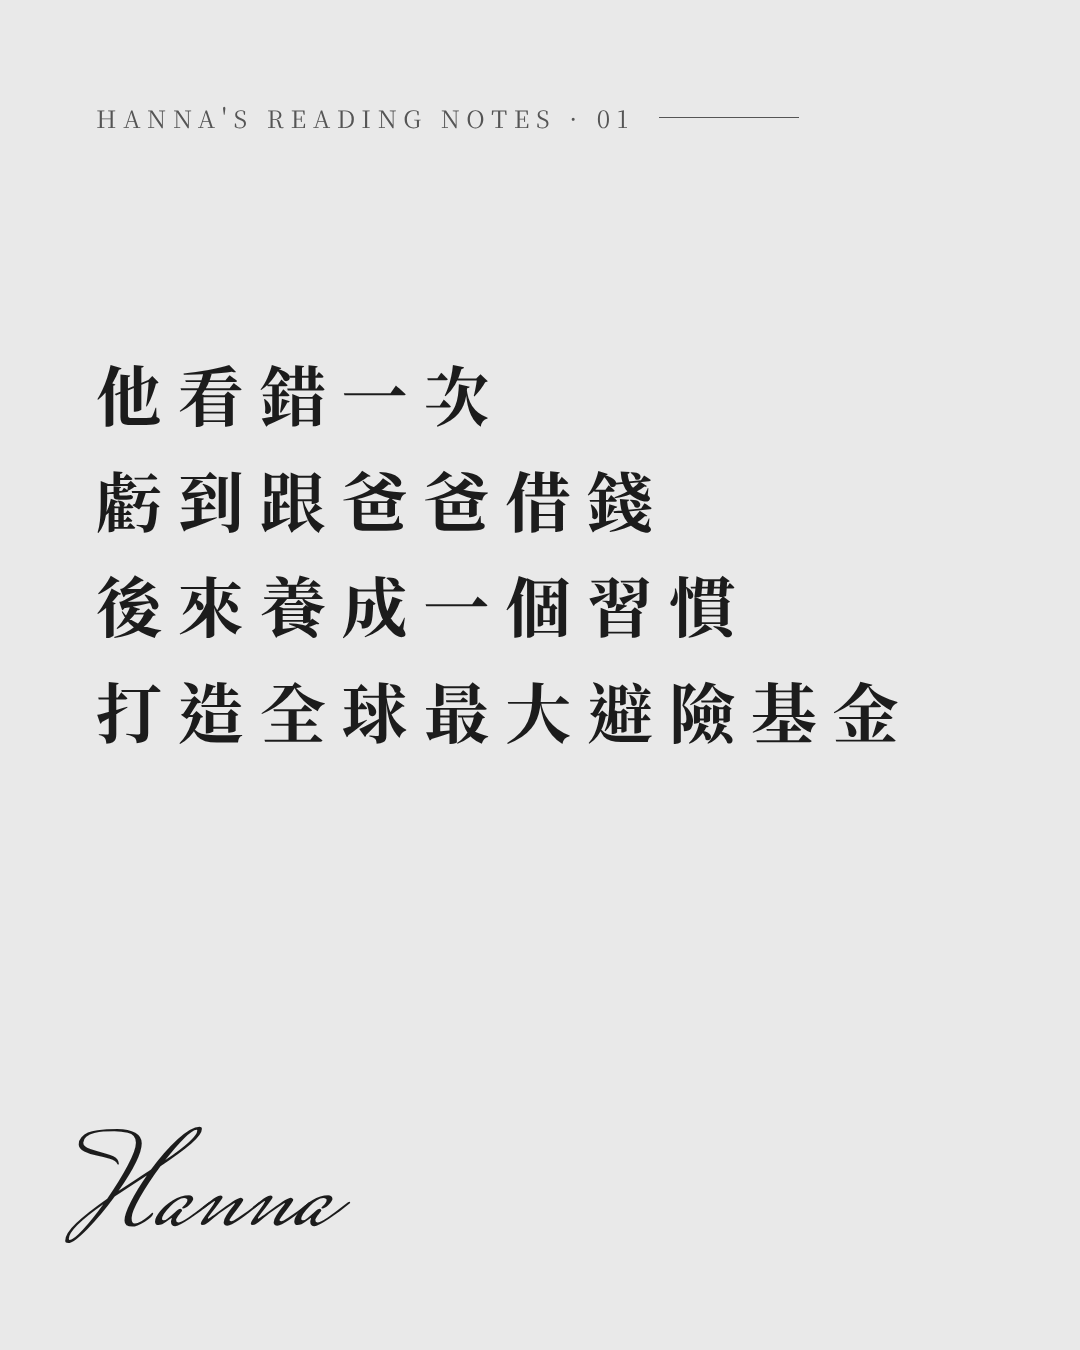
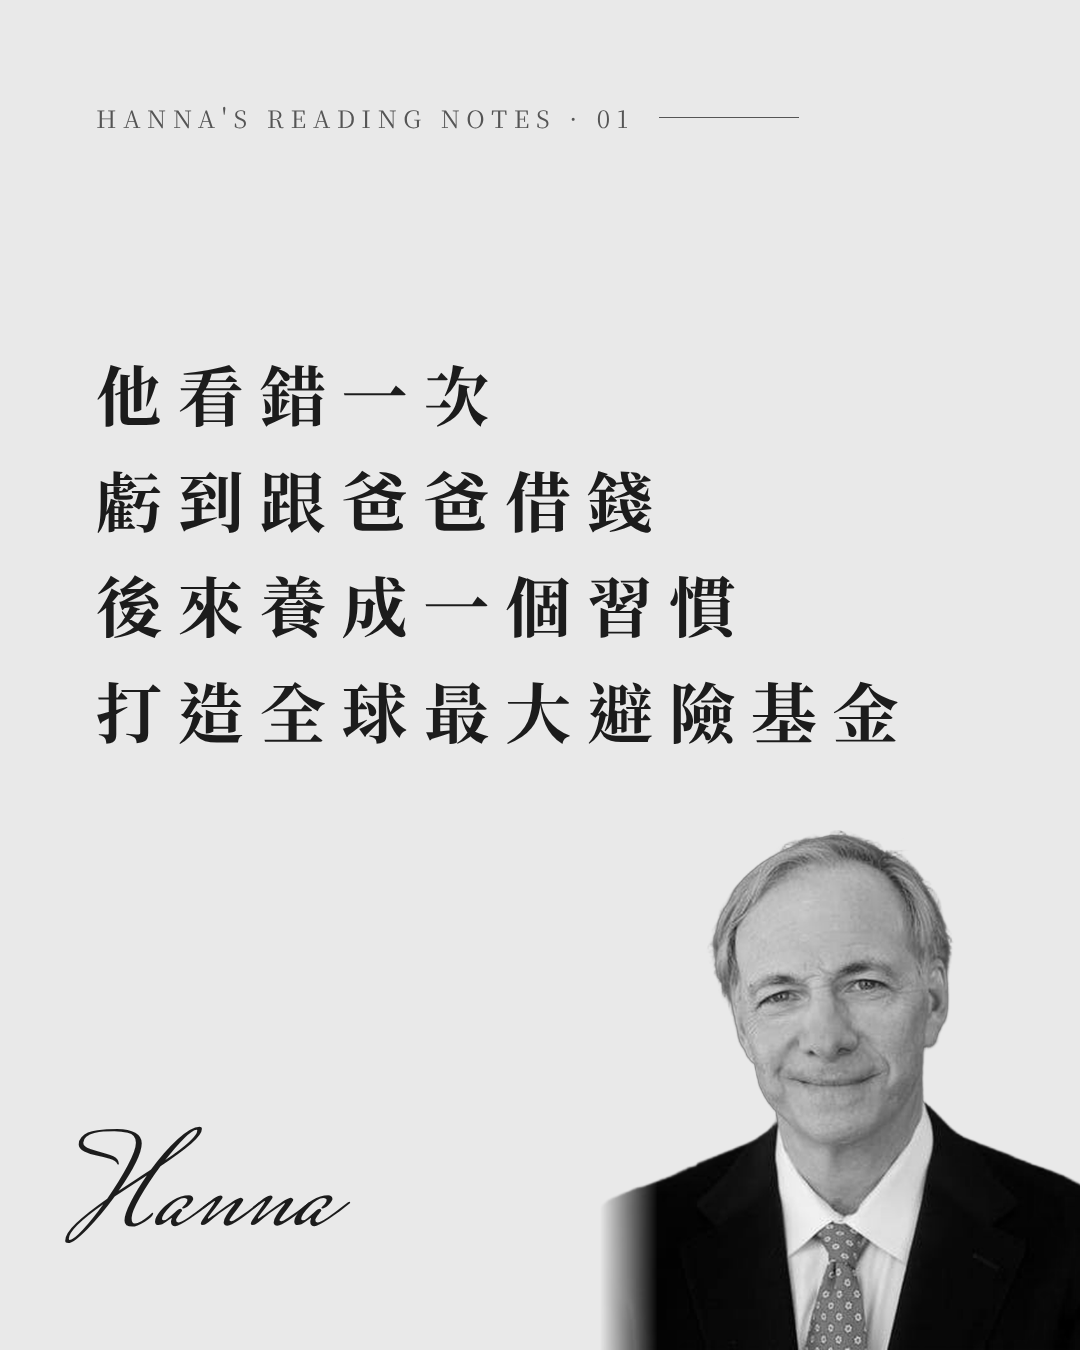
痛苦反思輪播：封面加入 Ray Dalio 去背照
Claude-Session: https://claude.ai/code/session_01AFjNkU8XspDCm6xvkskaQj

Changed region(s): [[0.55, 0.5911, 1.0, 1.0]]

diff --git a/IP經營/輪播_痛苦反思/slides.html b/IP經營/輪播_痛苦反思/slides.html
@@ -20,8 +20,9 @@
   }
   .series::after { content: ""; width: 140px; height: 1px; background: var(--soft); }
   .person {
-    position: absolute; right: 0; bottom: 0; width: 430px; height: 520px;
+    position: absolute; right: 0; bottom: 0; width: 480px; height: 520px;
     background: url(person.png) center top / cover no-repeat;
+    -webkit-mask-image: linear-gradient(to right, transparent 0%, #000 12%);
   }
   .who { position: absolute; left: 96px; bottom: 330px; }
   .who::before { content: ""; display: block; width: 72px; height: 1px; background: var(--ink); margin-bottom: 28px; }

diff --git a/IP經營/輪播貼文_痛苦反思.md b/IP經營/輪播貼文_痛苦反思.md
@@ -2,7 +2,7 @@
 
 圖檔：`IP經營/輪播_痛苦反思/01.png`～`10.png`
 人物：Ray Dalio（封面不顯示姓名，第 3 張揭曉）
-封面人物照：待使用者提供，收到後放成 `IP經營/輪播_痛苦反思/person.png` 並重新算圖
+封面人物照：使用者提供的大頭照，已去背（birefnet-portrait）
 
 ## 貼文說明文字（Caption）
 
